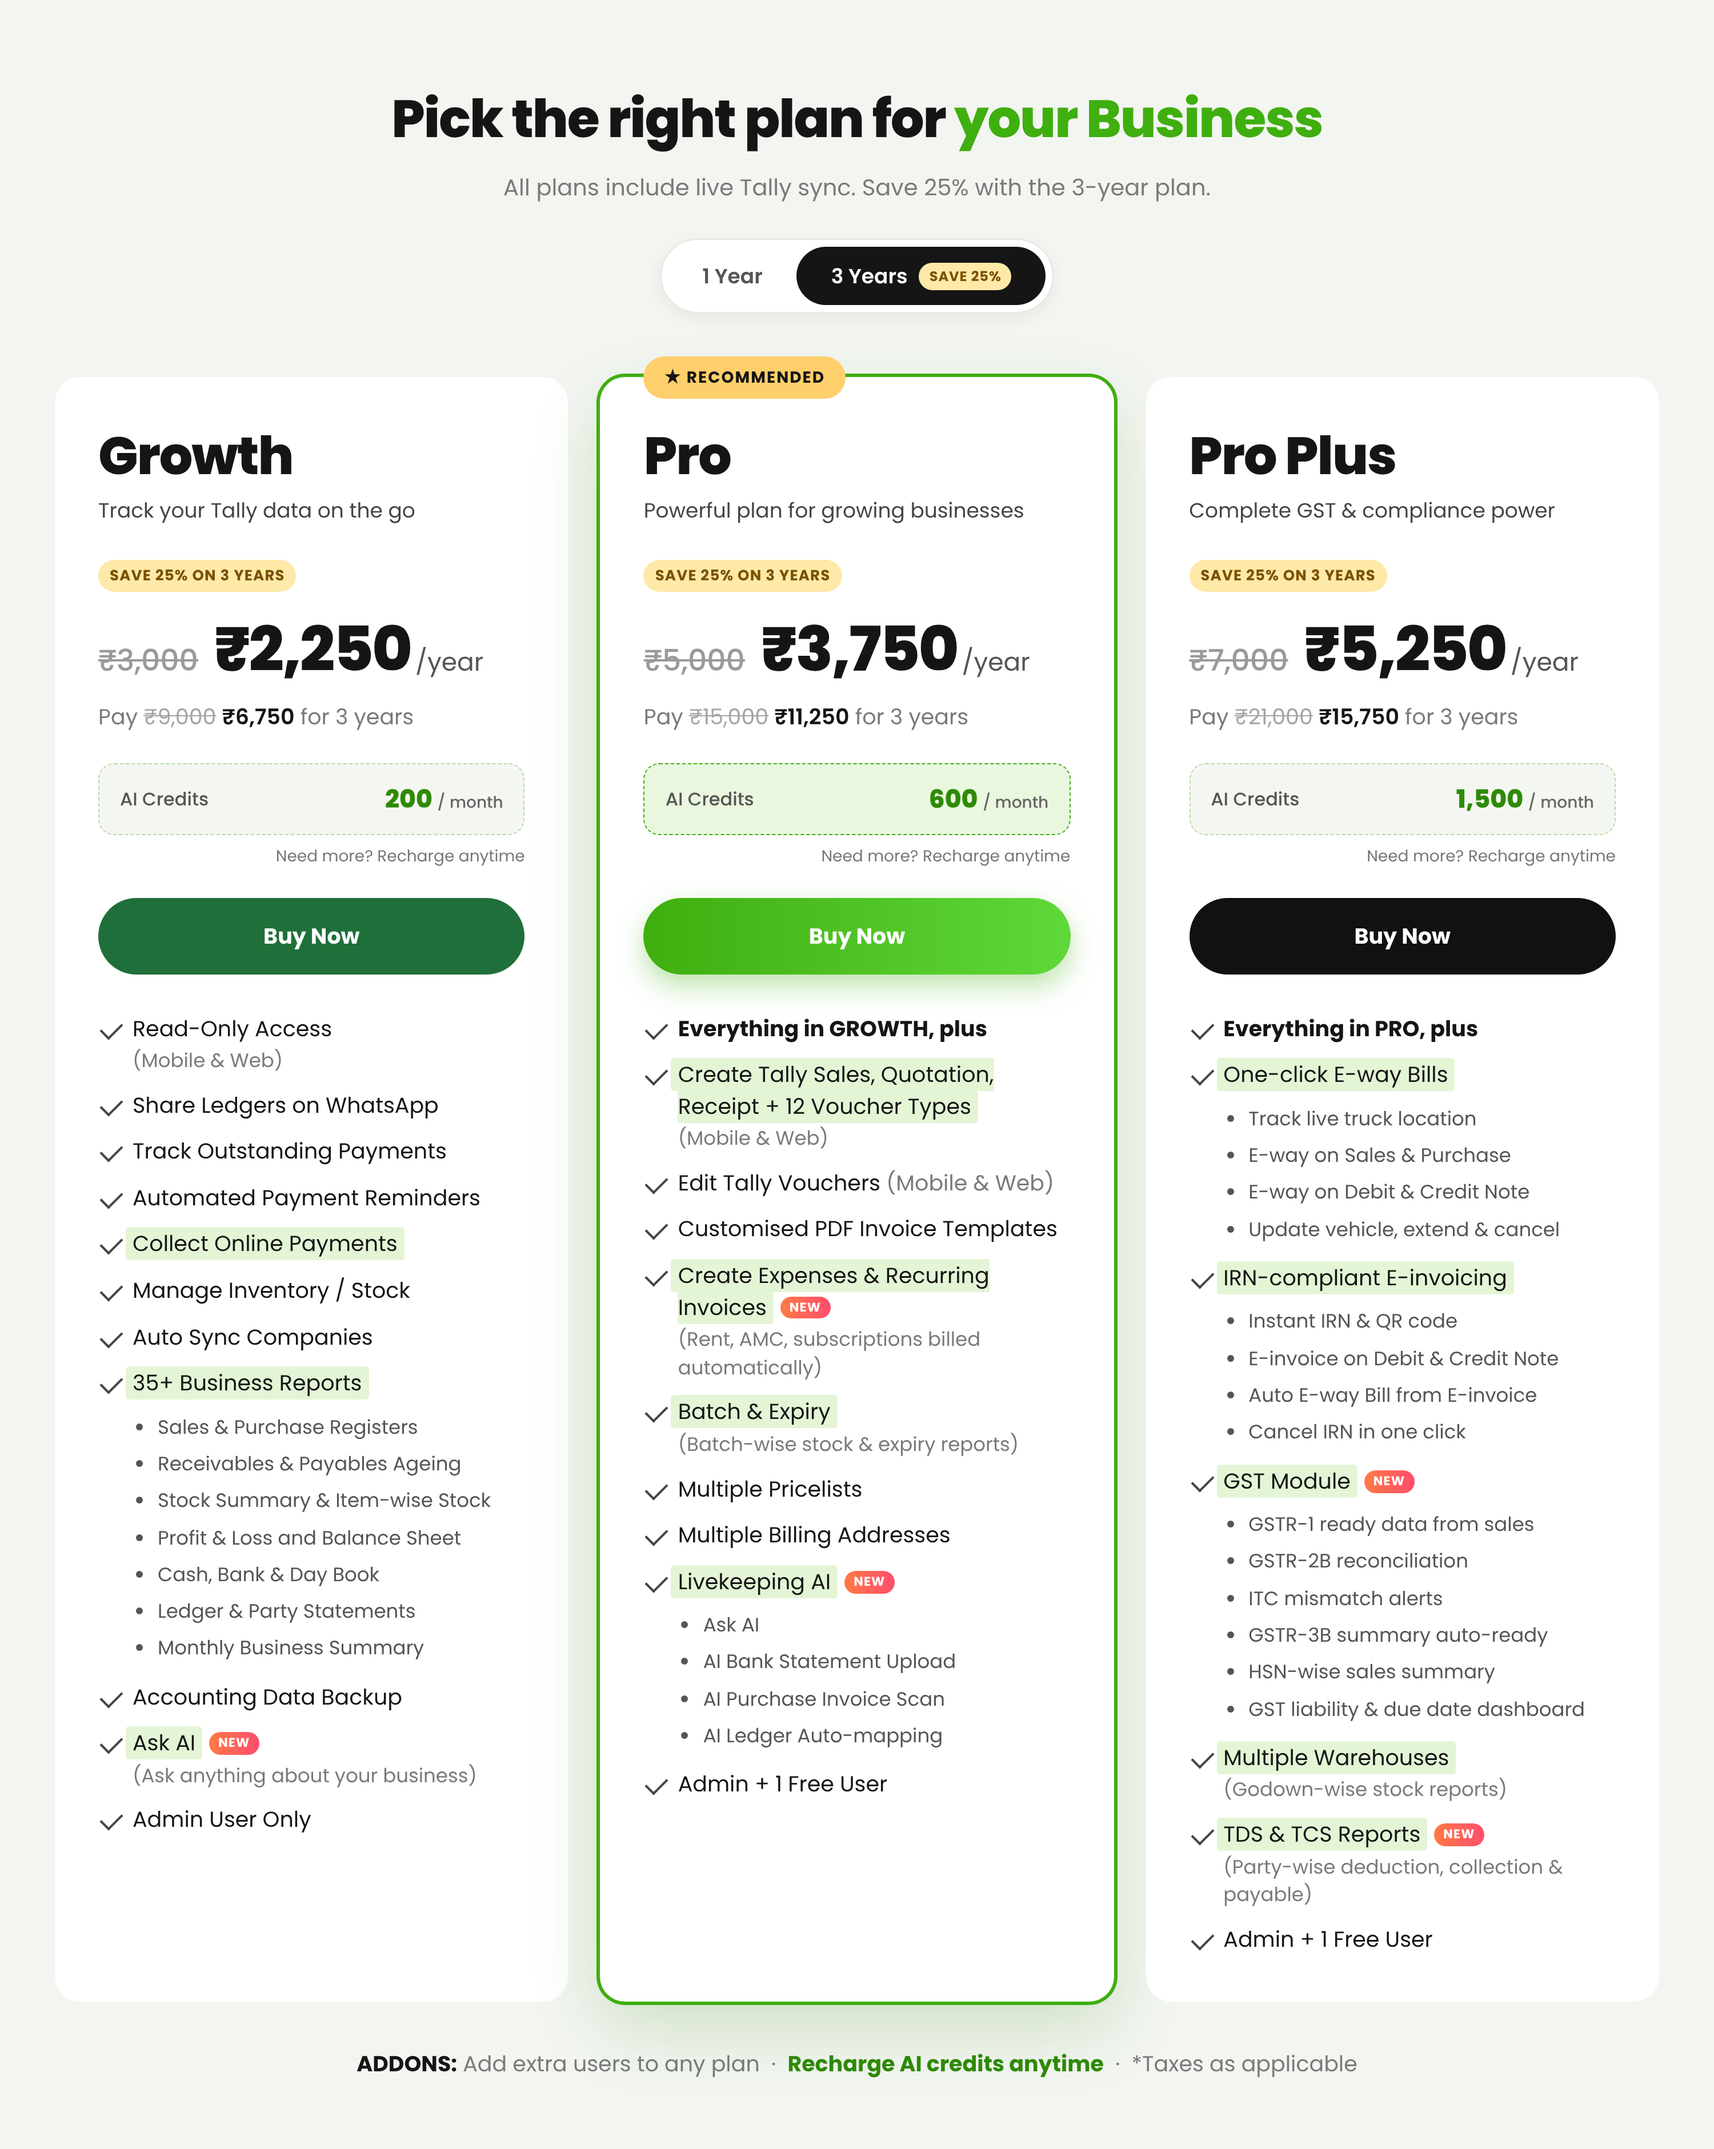
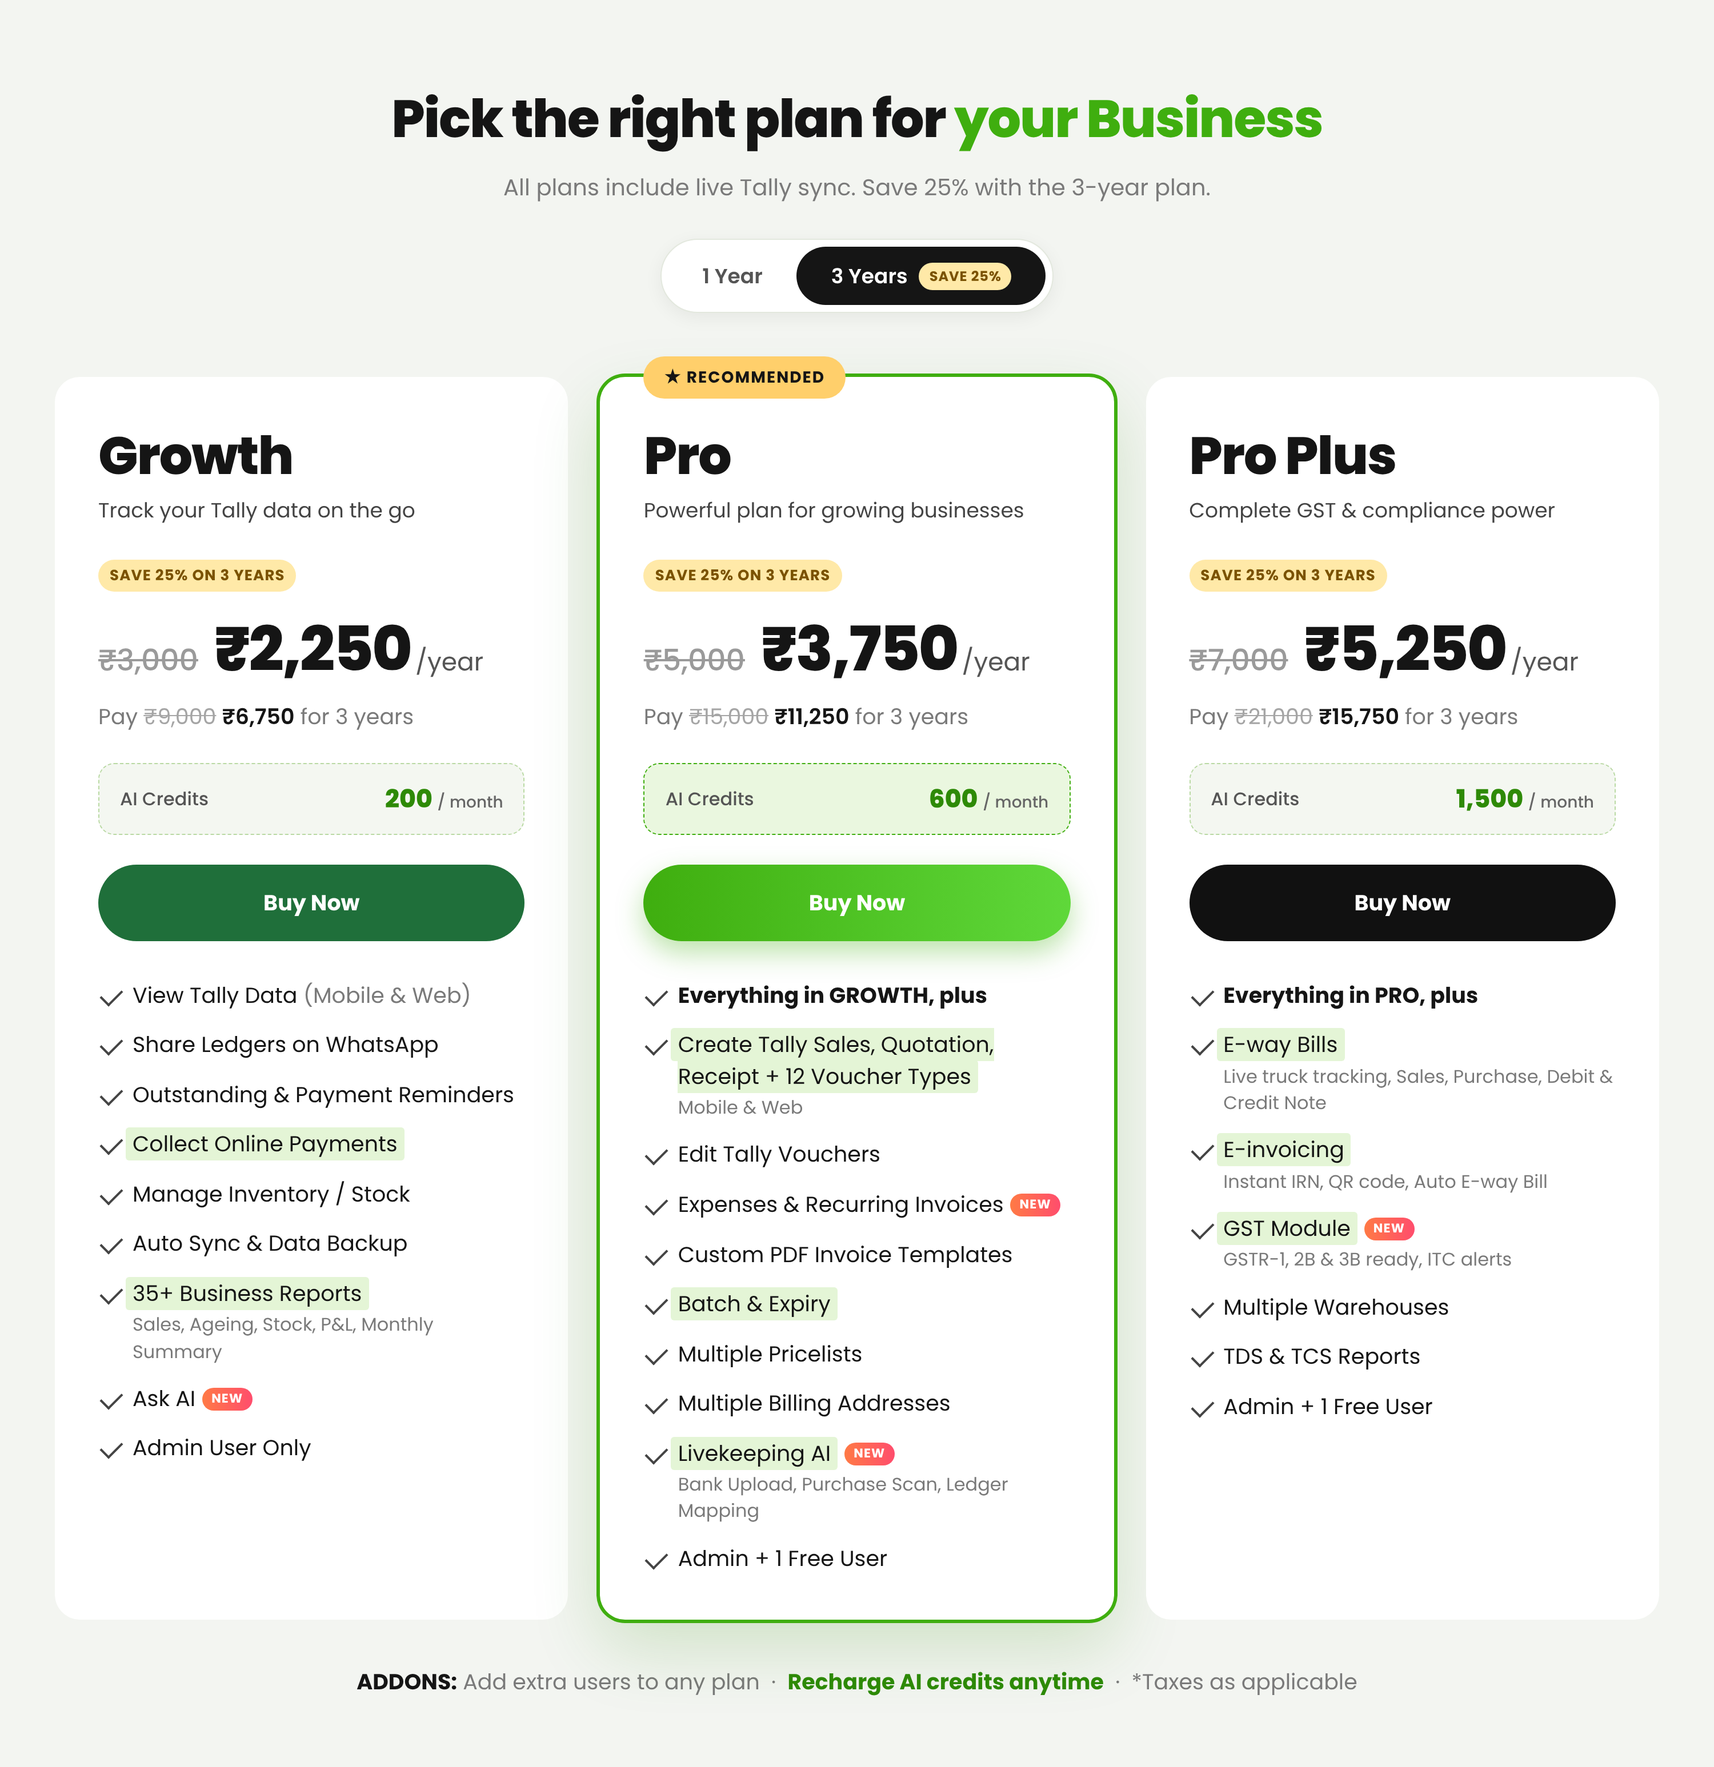
Pricing cards: shorter, less cluttered feature lists
Claude-Session: https://claude.ai/code/session_01TUFe6273V25gsCzznixesV

diff --git a/livekeeping-pricing/cards.html b/livekeeping-pricing/cards.html
@@ -65,14 +65,15 @@
   .pro .btn { background: linear-gradient(90deg, #3fae0f, #5fd83a); box-shadow: 0 10px 24px rgba(63,174,15,.35); }
   .plus .btn { background: #111; }
 
-  ul { list-style: none; display: flex; flex-direction: column; gap: 13px; }
+  ul { list-style: none; display: flex; flex-direction: column; gap: 16px; }
   li { display: grid; grid-template-columns: 30px 1fr; font-size: 19px; line-height: 1.45; }
   li::before {
     content: ""; width: 9px; height: 16px; margin: 4px 0 0 6px;
     border: solid #444; border-width: 0 2px 2px 0; transform: rotate(45deg);
   }
   .hl { background: var(--hl); padding: 1px 6px; margin-left: -6px; border-radius: 3px; }
-  .note { display: block; color: var(--muted); font-size: 17px; margin-top: 2px; }
+  .note { display: block; color: var(--muted); font-size: 16px; margin-top: 2px; }
+  .sub2 { color: var(--muted); }
   .new {
     display: inline-block; background: linear-gradient(90deg, #ff7a45, #ff4d6d); color: #fff;
     font-size: 11px; font-weight: 700; letter-spacing: .6px; padding: 2px 8px; border-radius: 20px;
@@ -115,28 +116,16 @@
         <div class="pay">Billed yearly · Save 25% on 3 years</div>
       </div>
       <div class="credits"><span class="lbl">AI Credits</span><span class="num">200 <small>/ month</small></span></div>
-      <div class="credits-note">Need more? Recharge anytime</div>
       <div class="btn">Buy Now</div>
       <ul>
-        <li><div>Read-Only Access<span class="note">(Mobile &amp; Web)</span></div></li>
+        <li><div>View Tally Data <span class="sub2">(Mobile &amp; Web)</span></div></li>
         <li><div>Share Ledgers on WhatsApp</div></li>
-        <li><div>Track Outstanding Payments</div></li>
-        <li><div>Automated Payment Reminders</div></li>
+        <li><div>Outstanding &amp; Payment Reminders</div></li>
         <li><div><span class="hl">Collect Online Payments</span></div></li>
         <li><div>Manage Inventory / Stock</div></li>
-        <li><div>Auto Sync Companies</div></li>
-        <li><div><span class="hl">35+ Business Reports</span>
-          <ul class="dots">
-            <li>Sales &amp; Purchase Registers</li>
-            <li>Receivables &amp; Payables Ageing</li>
-            <li>Stock Summary &amp; Item-wise Stock</li>
-            <li>Profit &amp; Loss and Balance Sheet</li>
-            <li>Cash, Bank &amp; Day Book</li>
-            <li>Ledger &amp; Party Statements</li>
-            <li>Monthly Business Summary</li>
-          </ul></div></li>
-        <li><div>Accounting Data Backup</div></li>
-        <li><div><span class="hl">Ask AI</span><span class="new">NEW</span><span class="note">(Ask anything about your business)</span></div></li>
+        <li><div>Auto Sync &amp; Data Backup</div></li>
+        <li><div><span class="hl">35+ Business Reports</span><span class="note">Sales, Ageing, Stock, P&amp;L, Monthly Summary</span></div></li>
+        <li><div>Ask AI<span class="new">NEW</span></div></li>
         <li><div>Admin User Only</div></li>
       </ul>
     </div>
@@ -157,24 +146,17 @@
         <div class="pay">Billed yearly · Save 25% on 3 years</div>
       </div>
       <div class="credits"><span class="lbl">AI Credits</span><span class="num">600 <small>/ month</small></span></div>
-      <div class="credits-note">Need more? Recharge anytime</div>
       <div class="btn">Buy Now</div>
       <ul>
         <li><div><b>Everything in GROWTH, plus</b></div></li>
-        <li><div><span class="hl">Create Tally Sales, Quotation, Receipt + 12 Voucher Types</span><span class="note">(Mobile &amp; Web)</span></div></li>
-        <li><div>Edit Tally Vouchers <span style="color:var(--muted)">(Mobile &amp; Web)</span></div></li>
-        <li><div>Customised PDF Invoice Templates</div></li>
-        <li><div><span class="hl">Create Expenses &amp; Recurring Invoices</span><span class="new">NEW</span><span class="note">(Rent, AMC, subscriptions billed automatically)</span></div></li>
-        <li><div><span class="hl">Batch &amp; Expiry</span><span class="note">(Batch-wise stock &amp; expiry reports)</span></div></li>
+        <li><div><span class="hl">Create Tally Sales, Quotation, Receipt + 12 Voucher Types</span><span class="note">Mobile &amp; Web</span></div></li>
+        <li><div>Edit Tally Vouchers</div></li>
+        <li><div>Expenses &amp; Recurring Invoices<span class="new">NEW</span></div></li>
+        <li><div>Custom PDF Invoice Templates</div></li>
+        <li><div><span class="hl">Batch &amp; Expiry</span></div></li>
         <li><div>Multiple Pricelists</div></li>
         <li><div>Multiple Billing Addresses</div></li>
-        <li><div><span class="hl">Livekeeping AI</span><span class="new">NEW</span>
-          <ul class="dots">
-            <li>Ask AI</li>
-            <li>AI Bank Statement Upload</li>
-            <li>AI Purchase Invoice Scan</li>
-            <li>AI Ledger Auto-mapping</li>
-          </ul></div></li>
+        <li><div><span class="hl">Livekeeping AI</span><span class="new">NEW</span><span class="note">Bank Upload, Purchase Scan, Ledger Mapping</span></div></li>
         <li><div>Admin + 1 Free User</div></li>
       </ul>
     </div>
@@ -194,35 +176,14 @@
         <div class="pay">Billed yearly · Save 25% on 3 years</div>
       </div>
       <div class="credits"><span class="lbl">AI Credits</span><span class="num">1,500 <small>/ month</small></span></div>
-      <div class="credits-note">Need more? Recharge anytime</div>
       <div class="btn">Buy Now</div>
       <ul>
         <li><div><b>Everything in PRO, plus</b></div></li>
-        <li><div><span class="hl">One-click E-way Bills</span>
-          <ul class="dots">
-            <li>Track live truck location</li>
-            <li>E-way on Sales &amp; Purchase</li>
-            <li>E-way on Debit &amp; Credit Note</li>
-            <li>Update vehicle, extend &amp; cancel</li>
-          </ul></div></li>
-        <li><div><span class="hl">IRN-compliant E-invoicing</span>
-          <ul class="dots">
-            <li>Instant IRN &amp; QR code</li>
-            <li>E-invoice on Debit &amp; Credit Note</li>
-            <li>Auto E-way Bill from E-invoice</li>
-            <li>Cancel IRN in one click</li>
-          </ul></div></li>
-        <li><div><span class="hl">GST Module</span><span class="new">NEW</span>
-          <ul class="dots">
-            <li>GSTR-1 ready data from sales</li>
-            <li>GSTR-2B reconciliation</li>
-            <li>ITC mismatch alerts</li>
-            <li>GSTR-3B summary auto-ready</li>
-            <li>HSN-wise sales summary</li>
-            <li>GST liability &amp; due date dashboard</li>
-          </ul></div></li>
-        <li><div><span class="hl">Multiple Warehouses</span><span class="note">(Godown-wise stock reports)</span></div></li>
-        <li><div><span class="hl">TDS &amp; TCS Reports</span><span class="new">NEW</span><span class="note">(Party-wise deduction, collection &amp; payable)</span></div></li>
+        <li><div><span class="hl">E-way Bills</span><span class="note">Live truck tracking, Sales, Purchase, Debit &amp; Credit Note</span></div></li>
+        <li><div><span class="hl">E-invoicing</span><span class="note">Instant IRN, QR code, Auto E-way Bill</span></div></li>
+        <li><div><span class="hl">GST Module</span><span class="new">NEW</span><span class="note">GSTR-1, 2B &amp; 3B ready, ITC alerts</span></div></li>
+        <li><div>Multiple Warehouses</div></li>
+        <li><div>TDS &amp; TCS Reports</div></li>
         <li><div>Admin + 1 Free User</div></li>
       </ul>
     </div>
